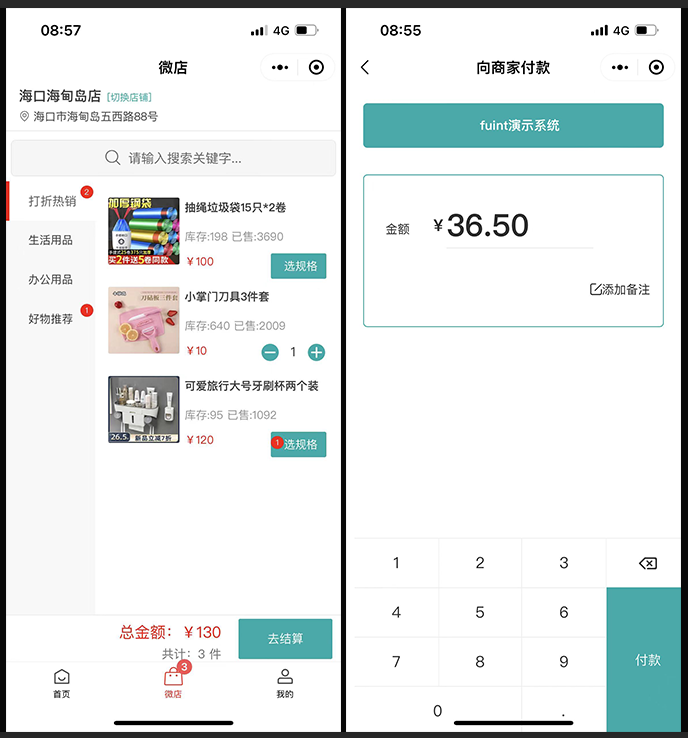
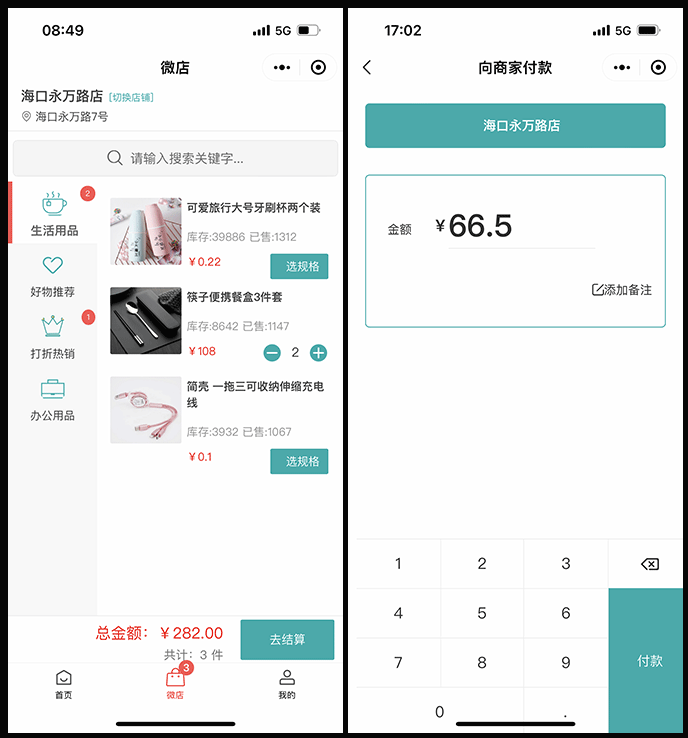
fixed README.md

diff --git a/README.md b/README.md
@@ -1,13 +1,18 @@
 # fuint会员营销系统介绍
 
 #### 介绍
-fuint会员营销系统是一套开源的实体店铺会员管理和营销系统。系统基于前后端分离的架构，后端采用<b>Java SpringBoot3</b> + <b>Mysql</b>，前端基于当前流行的<b>Uniapp</b>，<b>Vue3</b>、<b>Element UI Plus</b>，支持小程序、h5。主要功能包含电子优惠券、储值卡、实体卡、集次卡（计次卡）、短信发送、储值卡、会员积分、会员等级权益体系，支付收款等会员日常营销工具。本系统适用于各类实体店铺，如生鲜、零售超市、酒吧、酒店、汽车4S店、鲜花店、奶茶店、甜品店、餐饮店、农家乐等，是实体店铺会员营销必备的一款利器。
+fuint会员营销系统是一套开源的实体店铺会员管理和营销系统。系统基于前后端分离的架构，后端采用Java SpringBoot3 + Mysql，前端基于当前流行的Uniapp，Vue3、Element UI Plus，支持小程序、h5。主要功能包含电子优惠券、储值卡、实体卡、集次卡（计次卡）、短信发送、储值卡、会员积分、会员等级权益体系，支付收款等会员日常营销工具。本系统适用于各类实体店铺，如生鲜、零售超市、酒吧、酒店、汽车4S店、鲜花店、奶茶店、甜品店、餐饮店、农家乐等，是实体店铺会员营销必备的一款利器。
 以下是前台的页面展示：
 ![fuint会员端前台页面1](assets/g1.png)
+
 ![fuint会员端前台页面2](assets/g2.png)
+
 ![fuint会员端前台页面3](assets/g3.png)
+
 ![fuint会员端前台页面4](assets/g6.png)
+
 ![fuint会员端前台页面5](assets/g5.png)
+
 fuint侧重于线下实体店的私域流量的运营，同时提供会员端小程序和收银系统的线上线下统一渠道，帮助商户降低获客成本。顾客通过扫码支付成为私域流量，支付即可成为会员。积分和卡券功能建立起会员等级体系，通过消息推送和短信营销方便触达用户。
 <p>1、会员运营自动化：商家通过日常活动设置，如开卡礼设置，沉睡唤醒等，成为会员后自动给顾客送优惠券，让顾客更有黏性，提升会员运营效率。</p>
 <p>2、打通收银系统和会员营销的壁垒，代客下单收银，支付即成为会员。</p>
@@ -17,9 +22,10 @@ fuint侧重于线下实体店的私域流量的运营，同时提供会员端小
 <p>6、支持手机短信、站内弹框消息、微信订阅消息：支持包括发货消息、卡券到期提醒、活动提醒、会员到期提醒、积分余额变动提醒等消息。</p>
 <p>7、具有门店预约、到店支付等线上线下结合的o2o能力。</p>
 <p>小程序前端仓库：https://gitee.com/fuint/fuintStoreSystemFront</p>
-<b>扫码小程序演示：</b><br>
+
+扫码小程序演示：
 ![fuint小程序演示](assets/miniapp.png)
-<br>
+
 <b>官网演示地址：</b><br>
 <p>
    1、官网：<a target="_blank" href="https://www.fuint.cn">https://www.fuint.cn</a> 点击 -> 系统演示，演示账号：fuint / 123456<br>
